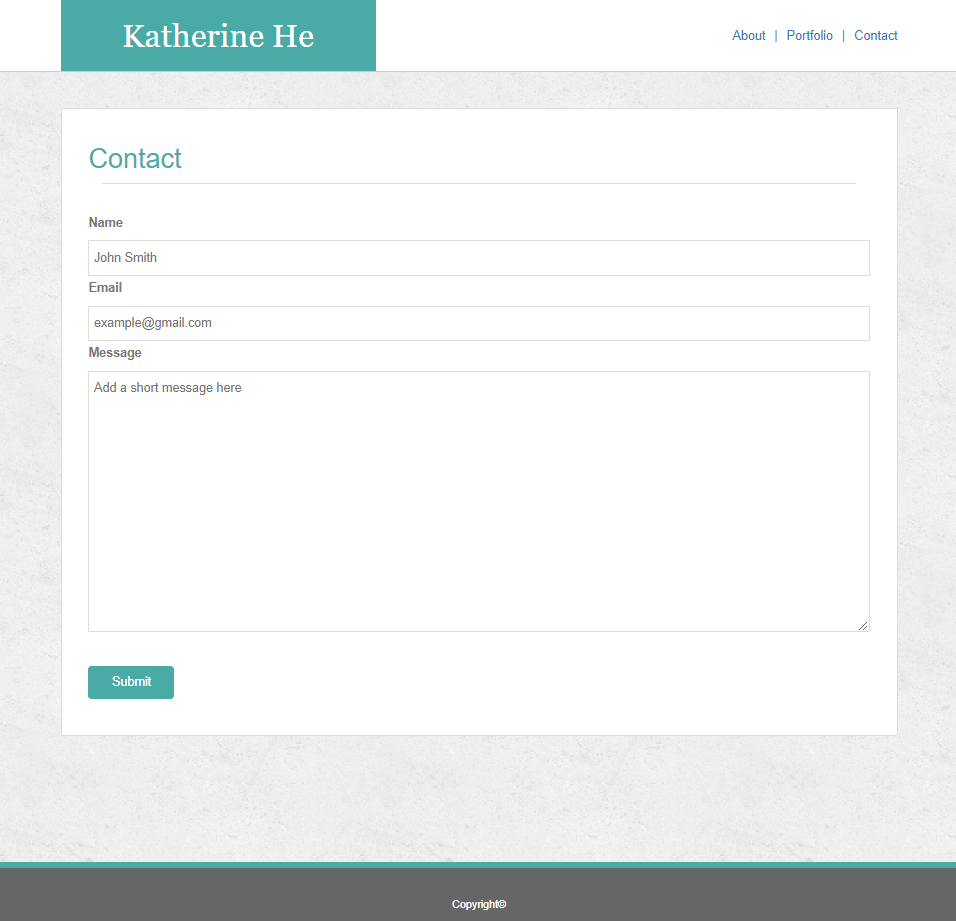
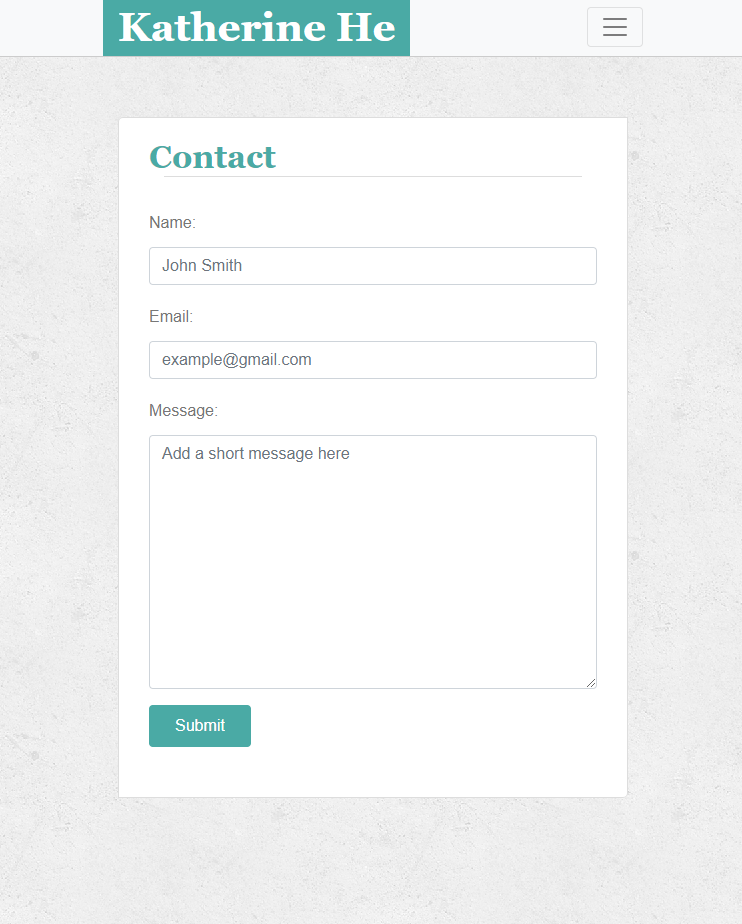
Update README.md

diff --git a/README.md b/README.md
@@ -1,0 +1,34 @@
+### Bootstrap-Portfolio
+
+# _Responsiveness_Assignment_
+
+The second assignment of Columbia Coding Bootcamp. 
+
+
+
+# Finished Product: 
+<img src="assets/images/BP-index.png" alt="Finished Index" width="230px"/>
+<img src="assets/images/BP-portfolio.png" alt="Finished Portfolio" width="230px"/>
+<img src="assets/images/BP-contact.png" alt="Finished Contact" width="230px"/>
+
+
+### Assignment One Instructions (Bootstrap)
+
+1. Inside your `Bootstrap-Portfolio` repo, create `index.html`, `portfolio.html` and `contact.html`.
+
+2. Using Bootstrap, recreate your portfolio site with the following items:
+
+   * A navbar
+
+   * A responsive layout (remember the grid, rows and columns are your friends)
+
+     * eg. On `xs` and `sm` screens, each section should take up the entire grid. On `md` and larger screens, each section should take up 2/3 of the grid and the sidebar should take up 1/3 of the grid
+
+   * Responsive images
+
+   **BONUS**
+   Using Bootstrap, make a sticky footer and use sub-rows and sub-columns on your portfolio site _(Hint: Check out the Bootstrap documentation)_
+
+3. Your Bootstrap solution should minimize use of media queries.
+
+4. Deploy your new Bootstrap-powered portfolio to GitHub Pages.
